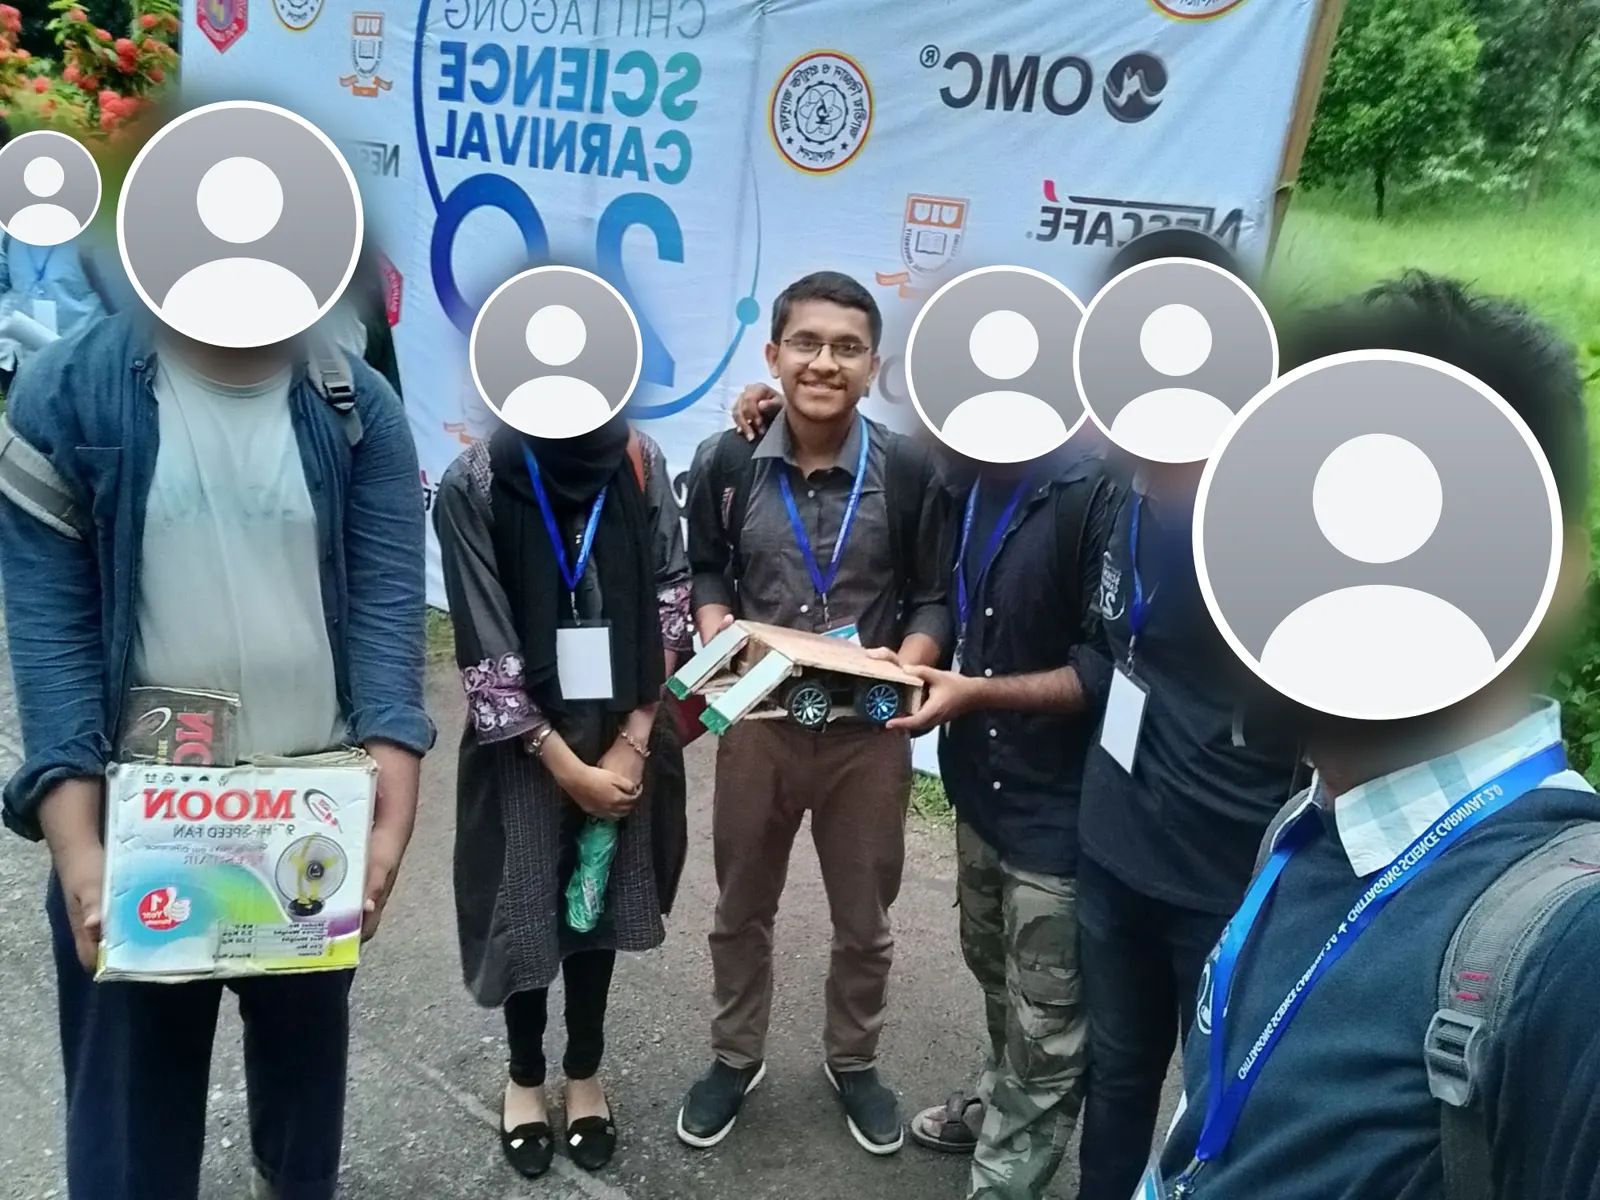
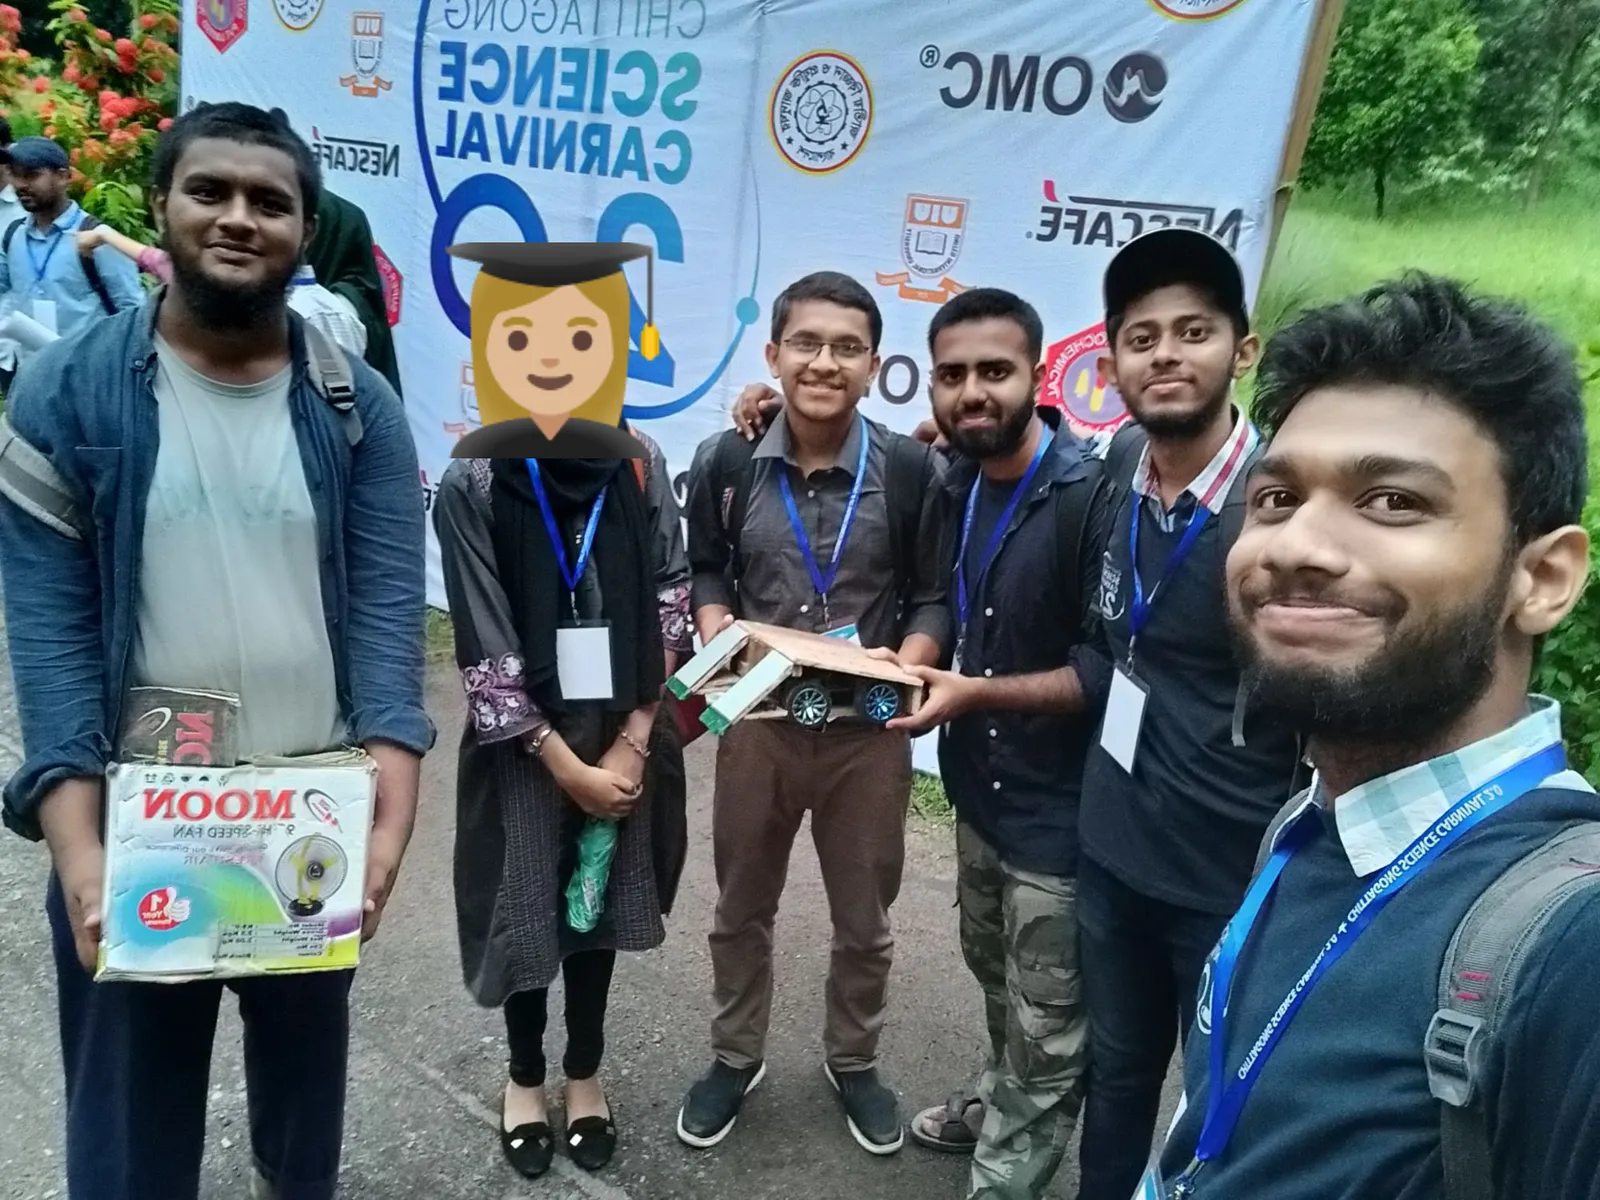
Robot story: one team photo, teammate covered with an emoji
- Use only the team selfie; cover one teammate's face with the
  👩🏼🎓 emoji (Noto Color Emoji) at the author's request.
- Remove the trio photo and the previously blurred versions.
- Credit Noto Color Emoji and henryheffernan.com in About This Mac.

Claude-Session: https://claude.ai/code/session_01LmTScaYUHk1iDJrcKEkpe3

Changed region(s): [[0.5312, 0.185, 1.0, 0.6475], [0.0, 0.0617, 0.25, 0.3392], [0.2812, 0.185, 0.4375, 0.4008]]

diff --git a/src/content/projects.ts b/src/content/projects.ts
@@ -100,17 +100,8 @@ export const projects: Project[] = [
       {
         id: 'robot-team',
         src: '/media/robot/team.webp',
-        alt: 'Six students with lanyards in front of the Chittagong Science Carnival 2.0 banner; Fahad, in the middle, holds the plywood soccer robot. Teammates’ faces are covered for privacy.',
+        alt: 'Six students with lanyards in front of the Chittagong Science Carnival 2.0 banner; Fahad, in the middle, holds the plywood soccer robot. One teammate’s face is covered with a graduate emoji for privacy.',
         caption: 'The team with the bot at Chittagong Science Carnival 2.0.',
-        width: 1600,
-        height: 1200,
-        kind: 'photo',
-      },
-      {
-        id: 'robot-trio',
-        src: '/media/robot/team-trio.webp',
-        alt: 'Fahad holding the robot in front of the Chittagong Science Carnival 2.0 banner, with two teammates whose faces are covered for privacy',
-        caption: 'Chittagong Science Carnival 2.0, 2022.',
         width: 1600,
         height: 1200,
         kind: 'photo',

diff --git a/src/components/desk/mac/apps.tsx b/src/components/desk/mac/apps.tsx
@@ -306,6 +306,13 @@ export function AboutApp() {
           <FMark size={13} /> fahadOS 26
         </dd>
       </dl>
+      <p className="mt-5 max-w-[300px] text-[10.5px] leading-snug text-black/40">
+        Inspired by{' '}
+        <a href="https://henryheffernan.com" target="_blank" rel="noopener noreferrer" className="underline">
+          henryheffernan.com
+        </a>
+        . Emoji from Noto Color Emoji by Google (Apache 2.0).
+      </p>
     </div>
   )
 }

diff --git a/src/components/desk/mac/soccer/Story.tsx b/src/components/desk/mac/soccer/Story.tsx
@@ -4,7 +4,7 @@ import { useState } from 'react'
 import { ChevronLeft, ChevronRight } from 'lucide-react'
 import { useDesk } from '../../DeskDataContext'
 
-const ORDER = ['robot-parts', 'robot-bench', 'robot-body', 'robot-team', 'robot-trio']
+const ORDER = ['robot-parts', 'robot-bench', 'robot-body', 'robot-team']
 
 export function Story({ built, onPlay, onBuild }: { built: boolean; onPlay: () => void; onBuild: () => void }) {
   const d = useDesk()
